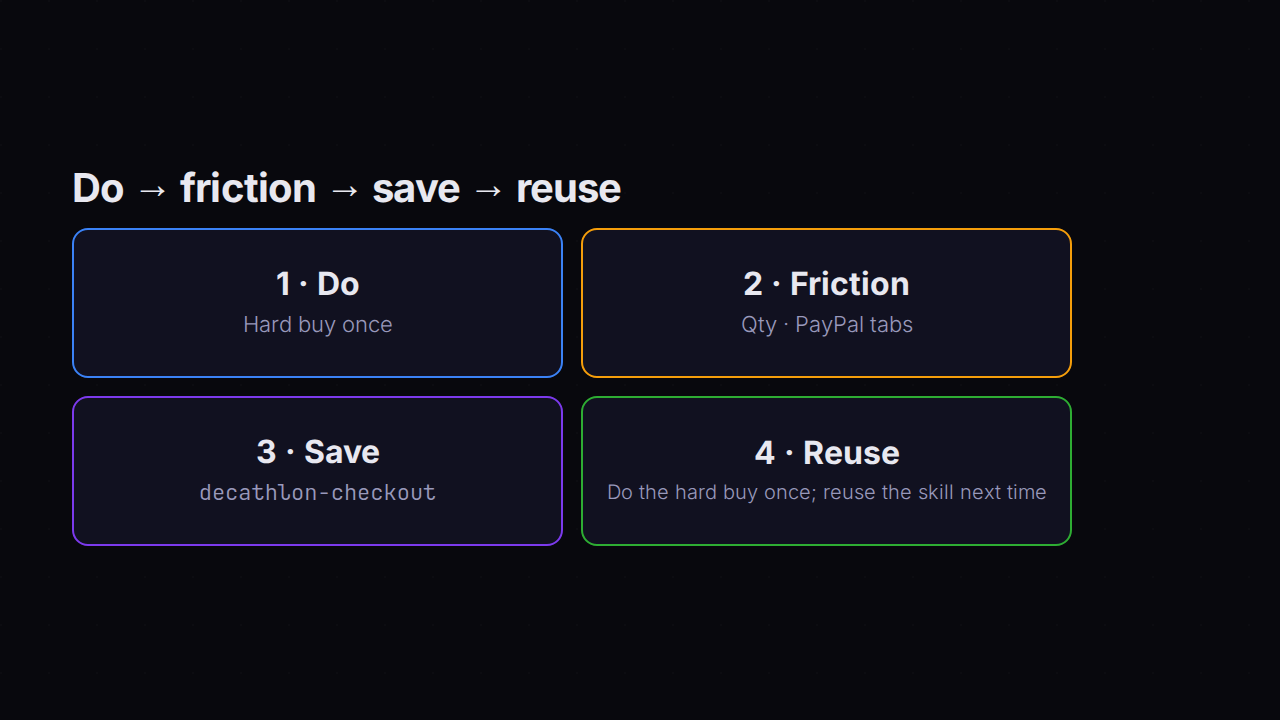
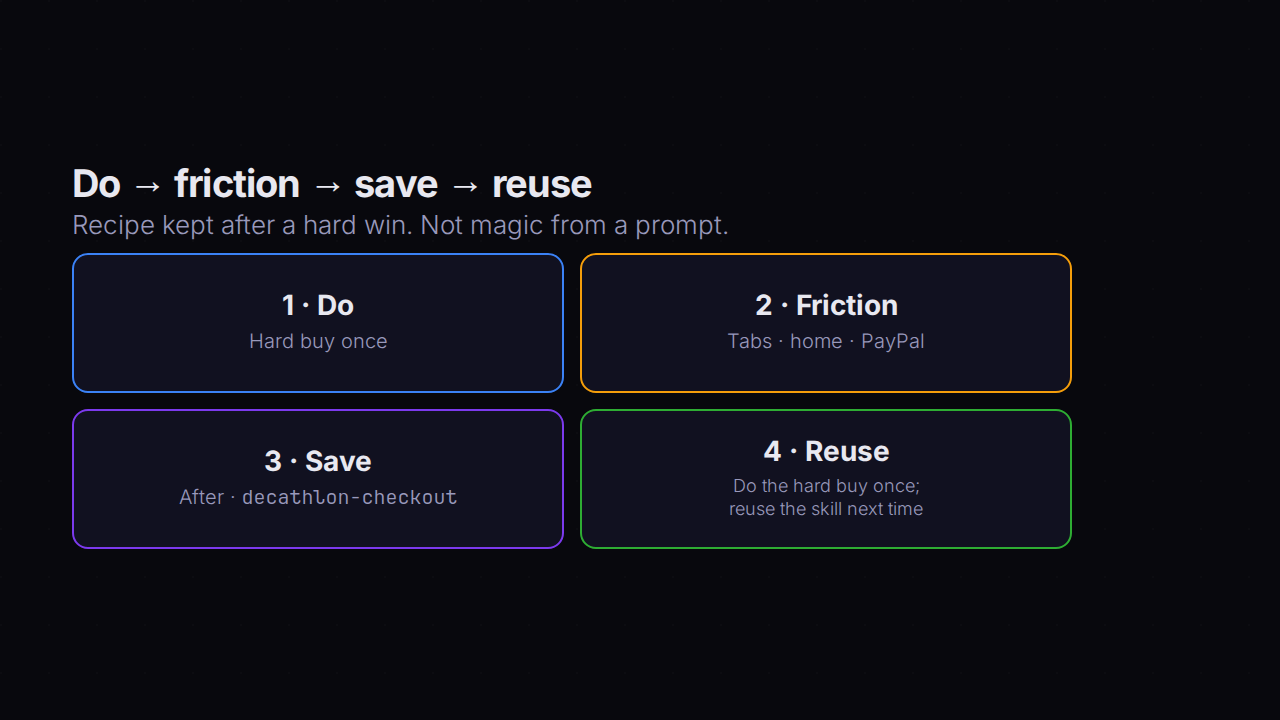
fix: honest Decathlon skill arc (gates then skill file)
Real Debbie lines for PayPal/tabs/home. Skill dated after the buy
(~28 Aug). Reuse punch without invented save-skill prompt. Re-verify
skill-loop at 1280x720.

diff --git a/infobip-shift-2026-agentic-developer/slides/23-skill-loop.md b/infobip-shift-2026-agentic-developer/slides/23-skill-loop.md
@@ -5,24 +5,25 @@ class: devsum-slide
 
 <div class="slide-inner">
 
-<h2 style="font-size:40px;margin-bottom:6px">Do → friction → save → reuse</h2>
+<h2 style="font-size:38px;margin-bottom:4px">Do → friction → save → reuse</h2>
+<p class="lede" style="margin-bottom:10px">Recipe kept after a hard win. Not magic from a prompt.</p>
 
-<div style="display:grid;grid-template-columns:1fr 1fr;gap:18px;margin-top:18px;max-width:1000px">
-  <div class="diagram-node blue" style="min-height:150px;padding:22px 18px">
-    <div class="label" style="font-size:32px;margin-bottom:10px">1 · Do</div>
-    <div class="sub" style="font-size:22px;margin:0">Hard buy once</div>
+<div style="display:grid;grid-template-columns:1fr 1fr;gap:16px;margin-top:8px;max-width:1000px">
+  <div class="diagram-node blue" style="min-height:140px;padding:18px 16px">
+    <div class="label" style="font-size:28px;margin-bottom:8px">1 · Do</div>
+    <div class="sub" style="font-size:20px;margin:0">Hard buy once</div>
   </div>
-  <div class="diagram-node orange" style="min-height:150px;padding:22px 18px">
-    <div class="label" style="font-size:32px;margin-bottom:10px">2 · Friction</div>
-    <div class="sub" style="font-size:22px;margin:0">Qty · PayPal tabs</div>
+  <div class="diagram-node orange" style="min-height:140px;padding:18px 16px">
+    <div class="label" style="font-size:28px;margin-bottom:8px">2 · Friction</div>
+    <div class="sub" style="font-size:20px;margin:0">Tabs · home · PayPal</div>
   </div>
-  <div class="diagram-node purple" style="min-height:150px;padding:22px 18px">
-    <div class="label" style="font-size:32px;margin-bottom:10px">3 · Save</div>
-    <div class="sub" style="font-size:22px;margin:0"><span class="mono">decathlon-checkout</span></div>
+  <div class="diagram-node purple" style="min-height:140px;padding:18px 16px">
+    <div class="label" style="font-size:28px;margin-bottom:8px">3 · Save</div>
+    <div class="sub" style="font-size:20px;margin:0">After · <span class="mono">decathlon-checkout</span></div>
   </div>
-  <div class="diagram-node green" style="min-height:150px;padding:22px 18px">
-    <div class="label" style="font-size:32px;margin-bottom:10px">4 · Reuse</div>
-    <div class="sub" style="font-size:20px;margin:0;line-height:1.25">Do the hard buy once; reuse the skill next time</div>
+  <div class="diagram-node green" style="min-height:140px;padding:18px 16px">
+    <div class="label" style="font-size:28px;margin-bottom:8px">4 · Reuse</div>
+    <div class="sub" style="font-size:18px;margin:0;line-height:1.3">Do the hard buy once;<br>reuse the skill next time</div>
   </div>
 </div>
 
@@ -30,7 +31,7 @@ class: devsum-slide
 
 <!--
 PRESENTER NOTES: SKILL LOOP
-- Big readable 2x2. Save happened AFTER the win.
+- Save is AFTER the live buy. Agent/team wrote the skill.
 - Punch: Do the hard buy once; reuse the skill next time.
-- Also good: PayPal still mine. The skill remembers the rest.
+- Also: PayPal still mine. The skill remembers the rest. (next slide)
 -->

diff --git a/infobip-shift-2026-agentic-developer/slides/22a-skill-ask.md b/infobip-shift-2026-agentic-developer/slides/22a-skill-ask.md
@@ -8,7 +8,7 @@ class: devsum-slide
 <span class="badge badge-orange" style="font-size:14px;padding:5px 14px;margin-bottom:10px">live buy · real lines</span>
 
 <h2 style="font-size:36px;margin-bottom:8px">What I actually said</h2>
-<p class="lede" style="margin-bottom:8px">Messy gates. Not "please save a skill."</p>
+<p class="lede" style="margin-bottom:8px">Messy gates. Not a magic "save skill" prompt.</p>
 
 <div class="card-stack" style="gap:8px;max-width:1040px">
   <div class="task-card" style="border-color:var(--accent);padding:12px 18px">
@@ -35,8 +35,9 @@ class: devsum-slide
 
 <!--
 PRESENTER NOTES: REAL LINES
-- Honest: I never typed "save as skill" before decathlon-checkout existed.
-- These are the gates that shaped the playbook: PayPal handoff, tab chaos, home delivery.
-- Skill was written after the hard win (agent/team), dated ~28 Aug.
-- Optional line off-slide: "Okay, I think I filled in everything so go ahead and finalize the payment."
+- Honest: never said optimize / save as skill / make this faster next time before the skill existed.
+- Gates that shaped the playbook: PayPal handoff, tab chaos, home delivery.
+- Also said (notes): "Okay, I think I filled in everything so go ahead and finalize the payment."
+- Skill written AFTER the buy (~28 Aug), agent/team initiative.
+- Privacy: say "home" only. No phone/email in chat (demos get recorded).
 -->

diff --git a/infobip-shift-2026-agentic-developer/slides/22-skill-divider.md b/infobip-shift-2026-agentic-developer/slides/22-skill-divider.md
@@ -14,13 +14,14 @@ class: devsum-slide
 
 <p style="font-size:24px;line-height:1.4;color:var(--text-dim);max-width:920px;margin:0 auto">
   Aug 18 · <span class="mono">decathlon.es</span> · kids tracksuits · home · PayPal<br>
-  After the chaos: <span class="mono accent bold">decathlon-checkout</span>
+  Skill written after (~28 Aug): <span class="mono accent bold">decathlon-checkout</span>
 </p>
 
 </div>
 
 <!--
 PRESENTER NOTES: SKILL DIVIDER
-- Skill came AFTER the messy buy. Not from a magic "save skill" prompt.
+- Buy was messy on Aug 18. Skill file came later (~28 Aug), agent/team initiative.
+- I never typed "save as skill" or "optimize" before it existed.
 - Never show address.
 -->

diff --git a/infobip-shift-2026-agentic-developer/slides/22b-paypal-human.md b/infobip-shift-2026-agentic-developer/slides/22b-paypal-human.md
@@ -34,4 +34,5 @@ class: devsum-slide
 <!--
 PRESENTER NOTES: HUMAN AT PAYPAL
 - I do login/2FA myself. Agent never sees credentials.
+- Punch with skill-loop: PayPal still mine. The skill remembers the rest.
 -->
